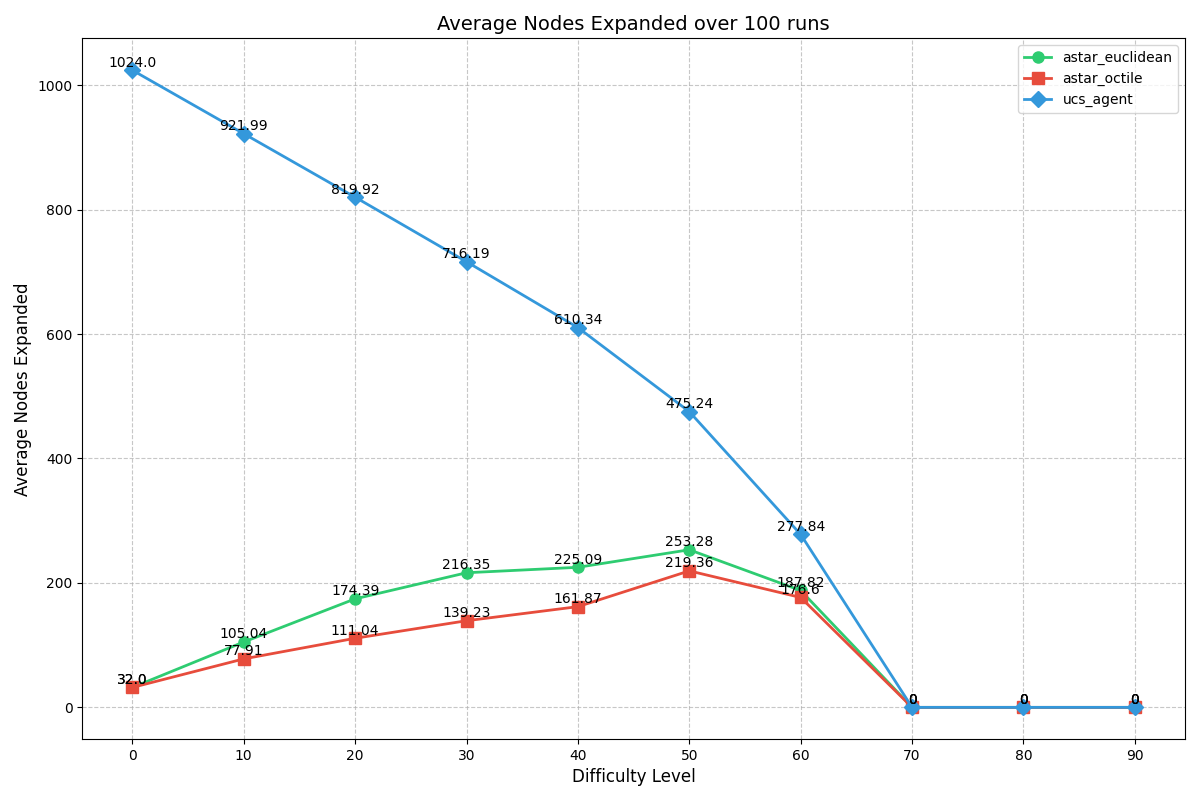
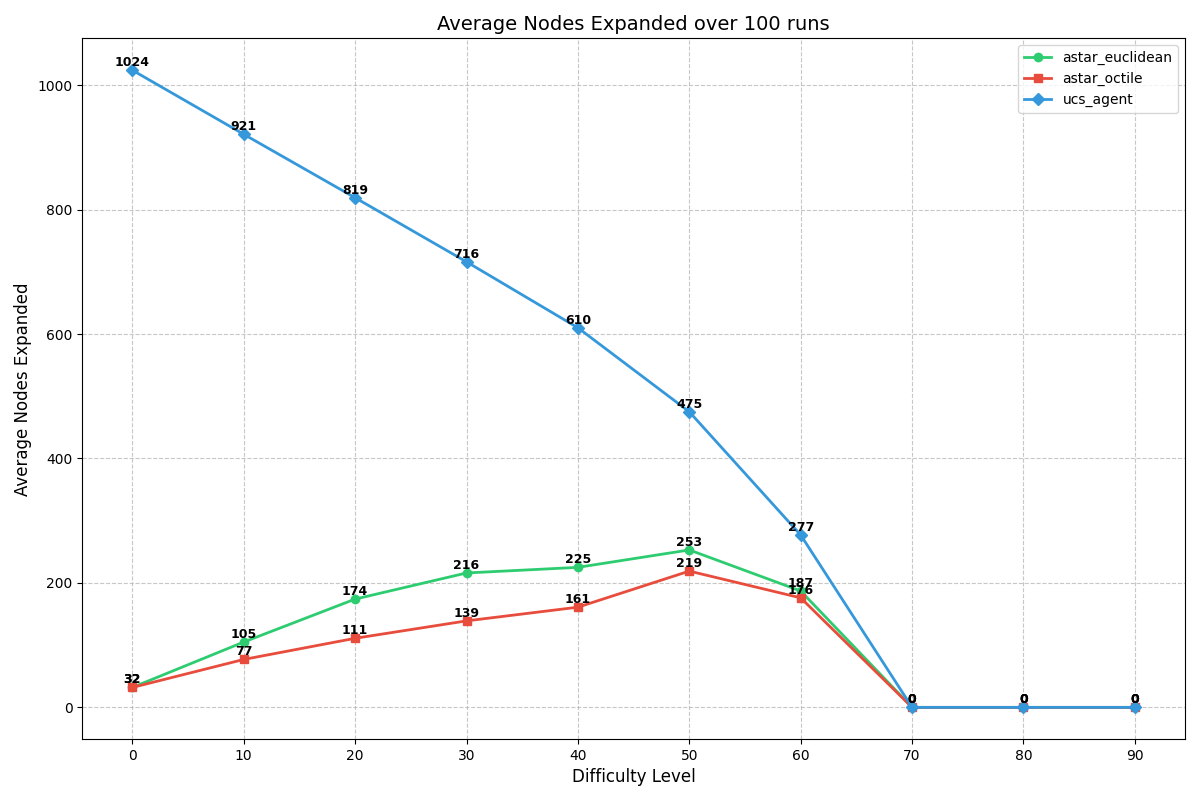
chore:made labels clearer in node comparison plot

diff --git a/plots/plots.py b/plots/plots.py
@@ -62,7 +62,7 @@ def cost_nodes_data(algorithm):
     for diff in difficulties:
         avg_cost, avg_nodes = load_more_data(diff, algorithm)
         avg_costs.append(round(avg_cost,2))
-        avg_nodes_expanded.append(round(avg_nodes,2))
+        avg_nodes_expanded.append(int(avg_nodes))
 
     return avg_costs, avg_nodes_expanded
 
@@ -73,8 +73,6 @@ def cost_comparison_plot(algorithms, markers, colors):
     difficulties = list(range(0, 91, 10))
     plt.figure(figsize=(12, 8))
     
-    overlap_value_dict = {}
-    
     for algorithm, marker, color in zip(algorithms, markers, colors):
         avg_costs,_= cost_nodes_data(algorithm)
         plt.plot(difficulties, avg_costs, 
@@ -83,9 +81,10 @@ def cost_comparison_plot(algorithms, markers, colors):
                 linewidth=2, 
                 label=algorithm,
                 color=color,
-                markersize=8)
+                markersize=7)
 
         # mark labels on top of the lines
+        overlap_value_dict = {}
         for x, y in zip(difficulties, avg_costs):
             offset = 0.75
             while any(abs(overlap_value - (y+offset)) < 1.5 for overlap_value in overlap_value_dict.get(x, [])):
@@ -125,11 +124,14 @@ def nodes_comparison_plot(algorithms, markers, colors):
                 linewidth=2, 
                 label=algorithm,
                 color=color,
-                markersize=8)
+                markersize=6)
 
         # mark labels on top of the lines
+        overlap_value_dict = {}
         for x, y in zip(difficulties, avg_nodes_expanded):
-            plt.text(x, y + 1, str(y), ha='center', va='bottom')
+            plt.text(x, y + 2, f"{y}", ha='center',
+                        va='bottom', fontsize=9, color='black', fontweight='semibold')
+
     
     plt.xlabel('Difficulty Level', fontsize=12)
     plt.ylabel('Average Nodes Expanded', fontsize=12)
@@ -215,5 +217,5 @@ def main(plot):
 
 if __name__ == "__main__":
     #main('pathfound')
-    main('cost')
-    #main('nodes')
+    #main('cost')
+    main('nodes')
